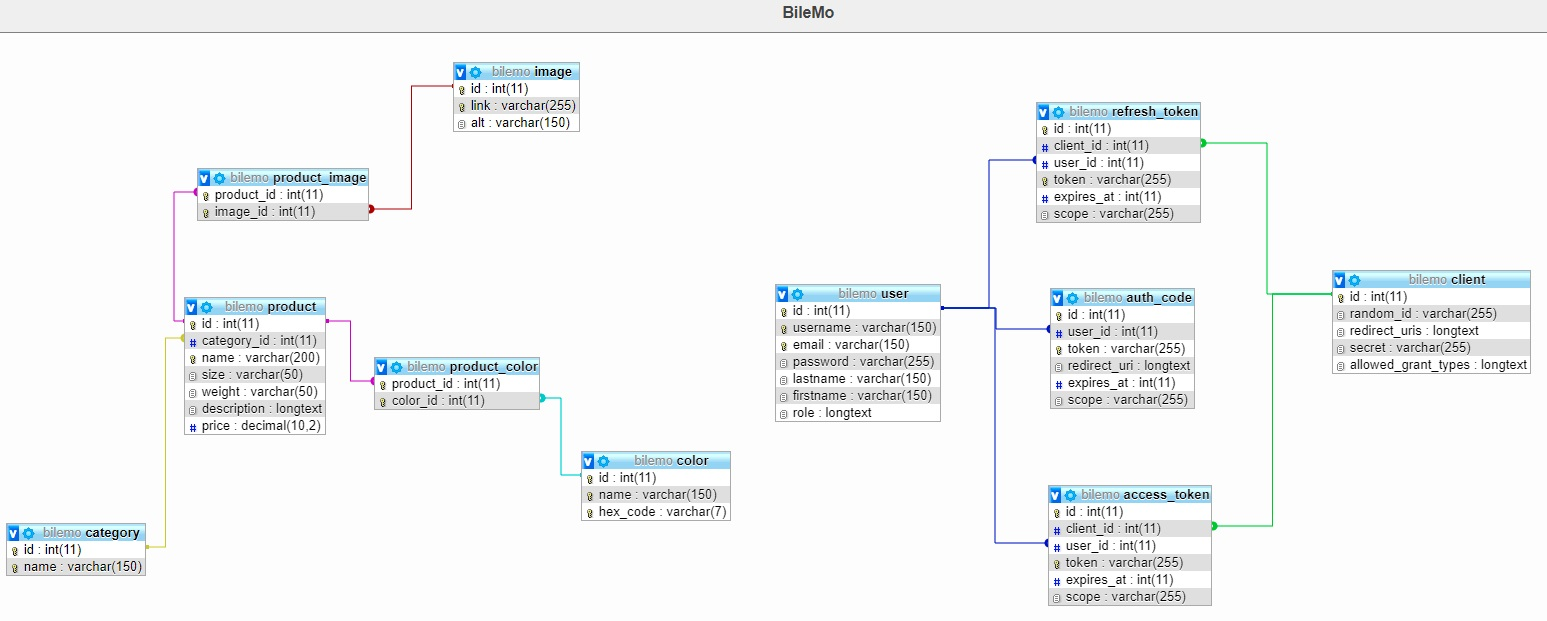
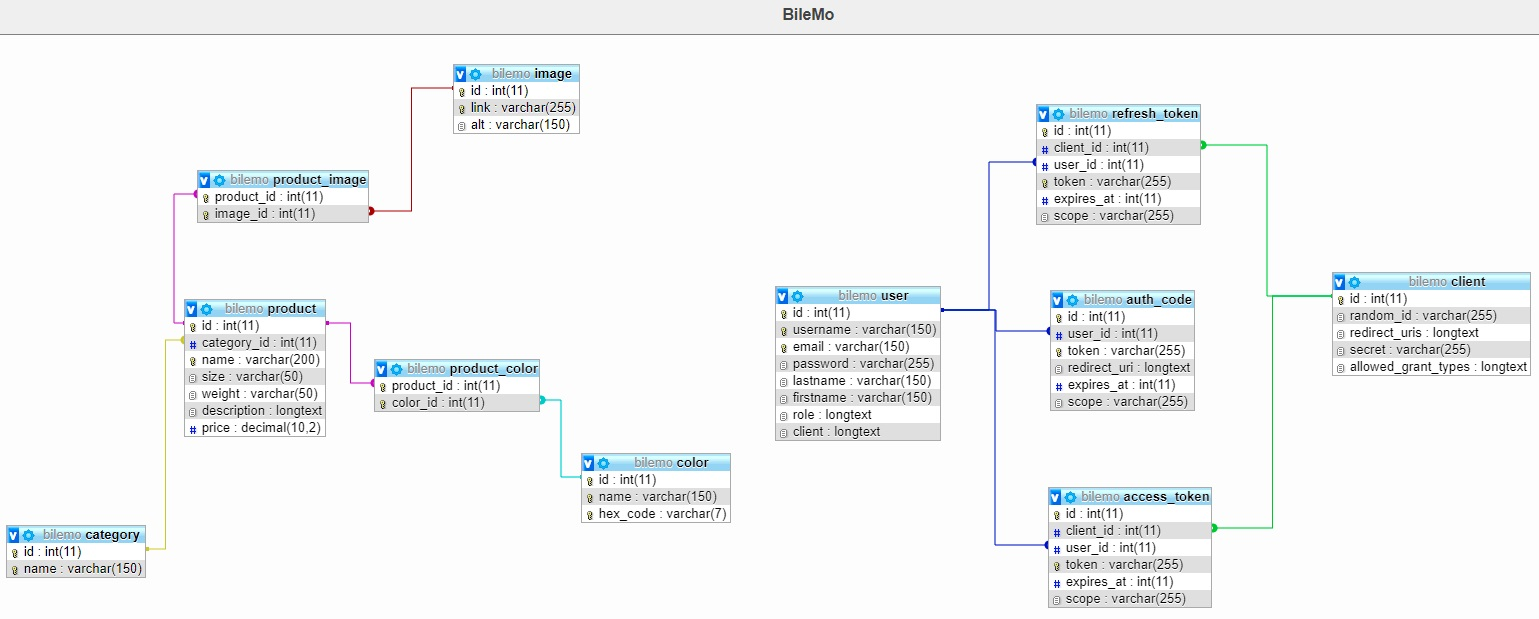
Added the client_id in the description of an user, updated BileMo_doc and diagrams

diff --git a/src/AppBundle/Controller/SecurityController.php b/src/AppBundle/Controller/SecurityController.php
@@ -68,7 +68,7 @@ class SecurityController extends FOSRestController
      *		name = "grant_type",
      *		requirements = "password|token|code",
      *		nullable = false,
-     *		description = "Grant type requested"
+     *		description = "Grant type requested."
      * )
      * @Rest\RequestParam(
      *		name = "redirect_uri",
@@ -96,6 +96,7 @@ class SecurityController extends FOSRestController
         $user->setLastname($paramFetcher->get('lastname'));
         $user->setFirstname($paramFetcher->get('firstname'));
         $user->setRoles(array($paramFetcher->get('role')));
+        $user->setClient(array($paramFetcher->get('client_id')));
         $errors = $this->get('validator')->validate($user);
         if (count($errors)) {
             $message = 'The JSON sent contains invalid data. Here are the errors you need to correct: ';
@@ -113,7 +114,7 @@ class SecurityController extends FOSRestController
             'client_id'		=> $paramFetcher->get('client_id'),
             'client_secret'	=> $paramFetcher->get('client_secret'),
             'grant_type'	=> $paramFetcher->get('grant_type'),
-            'username'		=> $user->getEmail(),
+            'username'		=> $paramFetcher->get('username'),
             'password'		=> $paramFetcher->get('password'),
             'redirect_uri'	=> $paramFetcher->get('redirect_uri')
         ]);

diff --git a/src/AppBundle/Controller/UserController.php b/src/AppBundle/Controller/UserController.php
@@ -18,26 +18,6 @@ class UserController extends Controller
 {
     /**
      * @Rest\Get(
-     *		path = "/users/me",
-     *		name = "get_user_infos"
-     * )
-     *
-     * @Rest\View(statusCode=200)
-     * @Doc\ApiDoc(
-     *		section = "Users",
-     *		resource = true,
-     *		description = "Get current user informations."
-     * )
-     */
-    public function getUserInfoAction(Request $request)
-    {
-        $user = $this->getUser();
-
-        return $user;
-    }
-
-    /**
-     * @Rest\Get(
      *		path = "/users",
      *		name = "users_list"
      * )
@@ -54,6 +34,26 @@ class UserController extends Controller
     {
         $users = $this->getDoctrine()->getManager()->getRepository('AppBundle:User')->findAll();
         return $users;
+    }
+
+    /**
+     * @Rest\Get(
+     *		path = "/users/me",
+     *		name = "get_user_infos"
+     * )
+     *
+     * @Rest\View(statusCode=200)
+     * @Doc\ApiDoc(
+     *		section = "Users",
+     *		resource = true,
+     *		description = "Get current user informations."
+     * )
+     */
+    public function getUserInfoAction(Request $request)
+    {
+        $user = $this->getUser();
+
+        return $user;
     }
 
     /**

diff --git a/src/AppBundle/Entity/User.php b/src/AppBundle/Entity/User.php
@@ -91,6 +91,13 @@ class User implements UserInterface
     private $roles;
 
     /**
+     * @ORM\Column(name="client", type="json_array")
+     * 
+     * @Expose
+     */
+    private $client;
+
+    /**
      * Get id
      *
      * @return int
@@ -232,6 +239,20 @@ class User implements UserInterface
         $this->roles = $roles;
 
         return $this;
+    }
+
+    public function setClient(array $client)
+    {
+        $this->client = $client;
+
+        return $this;
+    }
+
+    public function getClient()
+    {
+        $client = $this->client;
+
+        return array_unique($client);
     }
 
     public function getSalt()

diff --git a/BileMo_doc.md b/BileMo_doc.md
@@ -170,7 +170,7 @@ grant_type:
 
   * type: password|token|code
   * required: true
-  * description: Grant type requested
+  * description: Grant type requested.
 
 redirect_uri:
 
